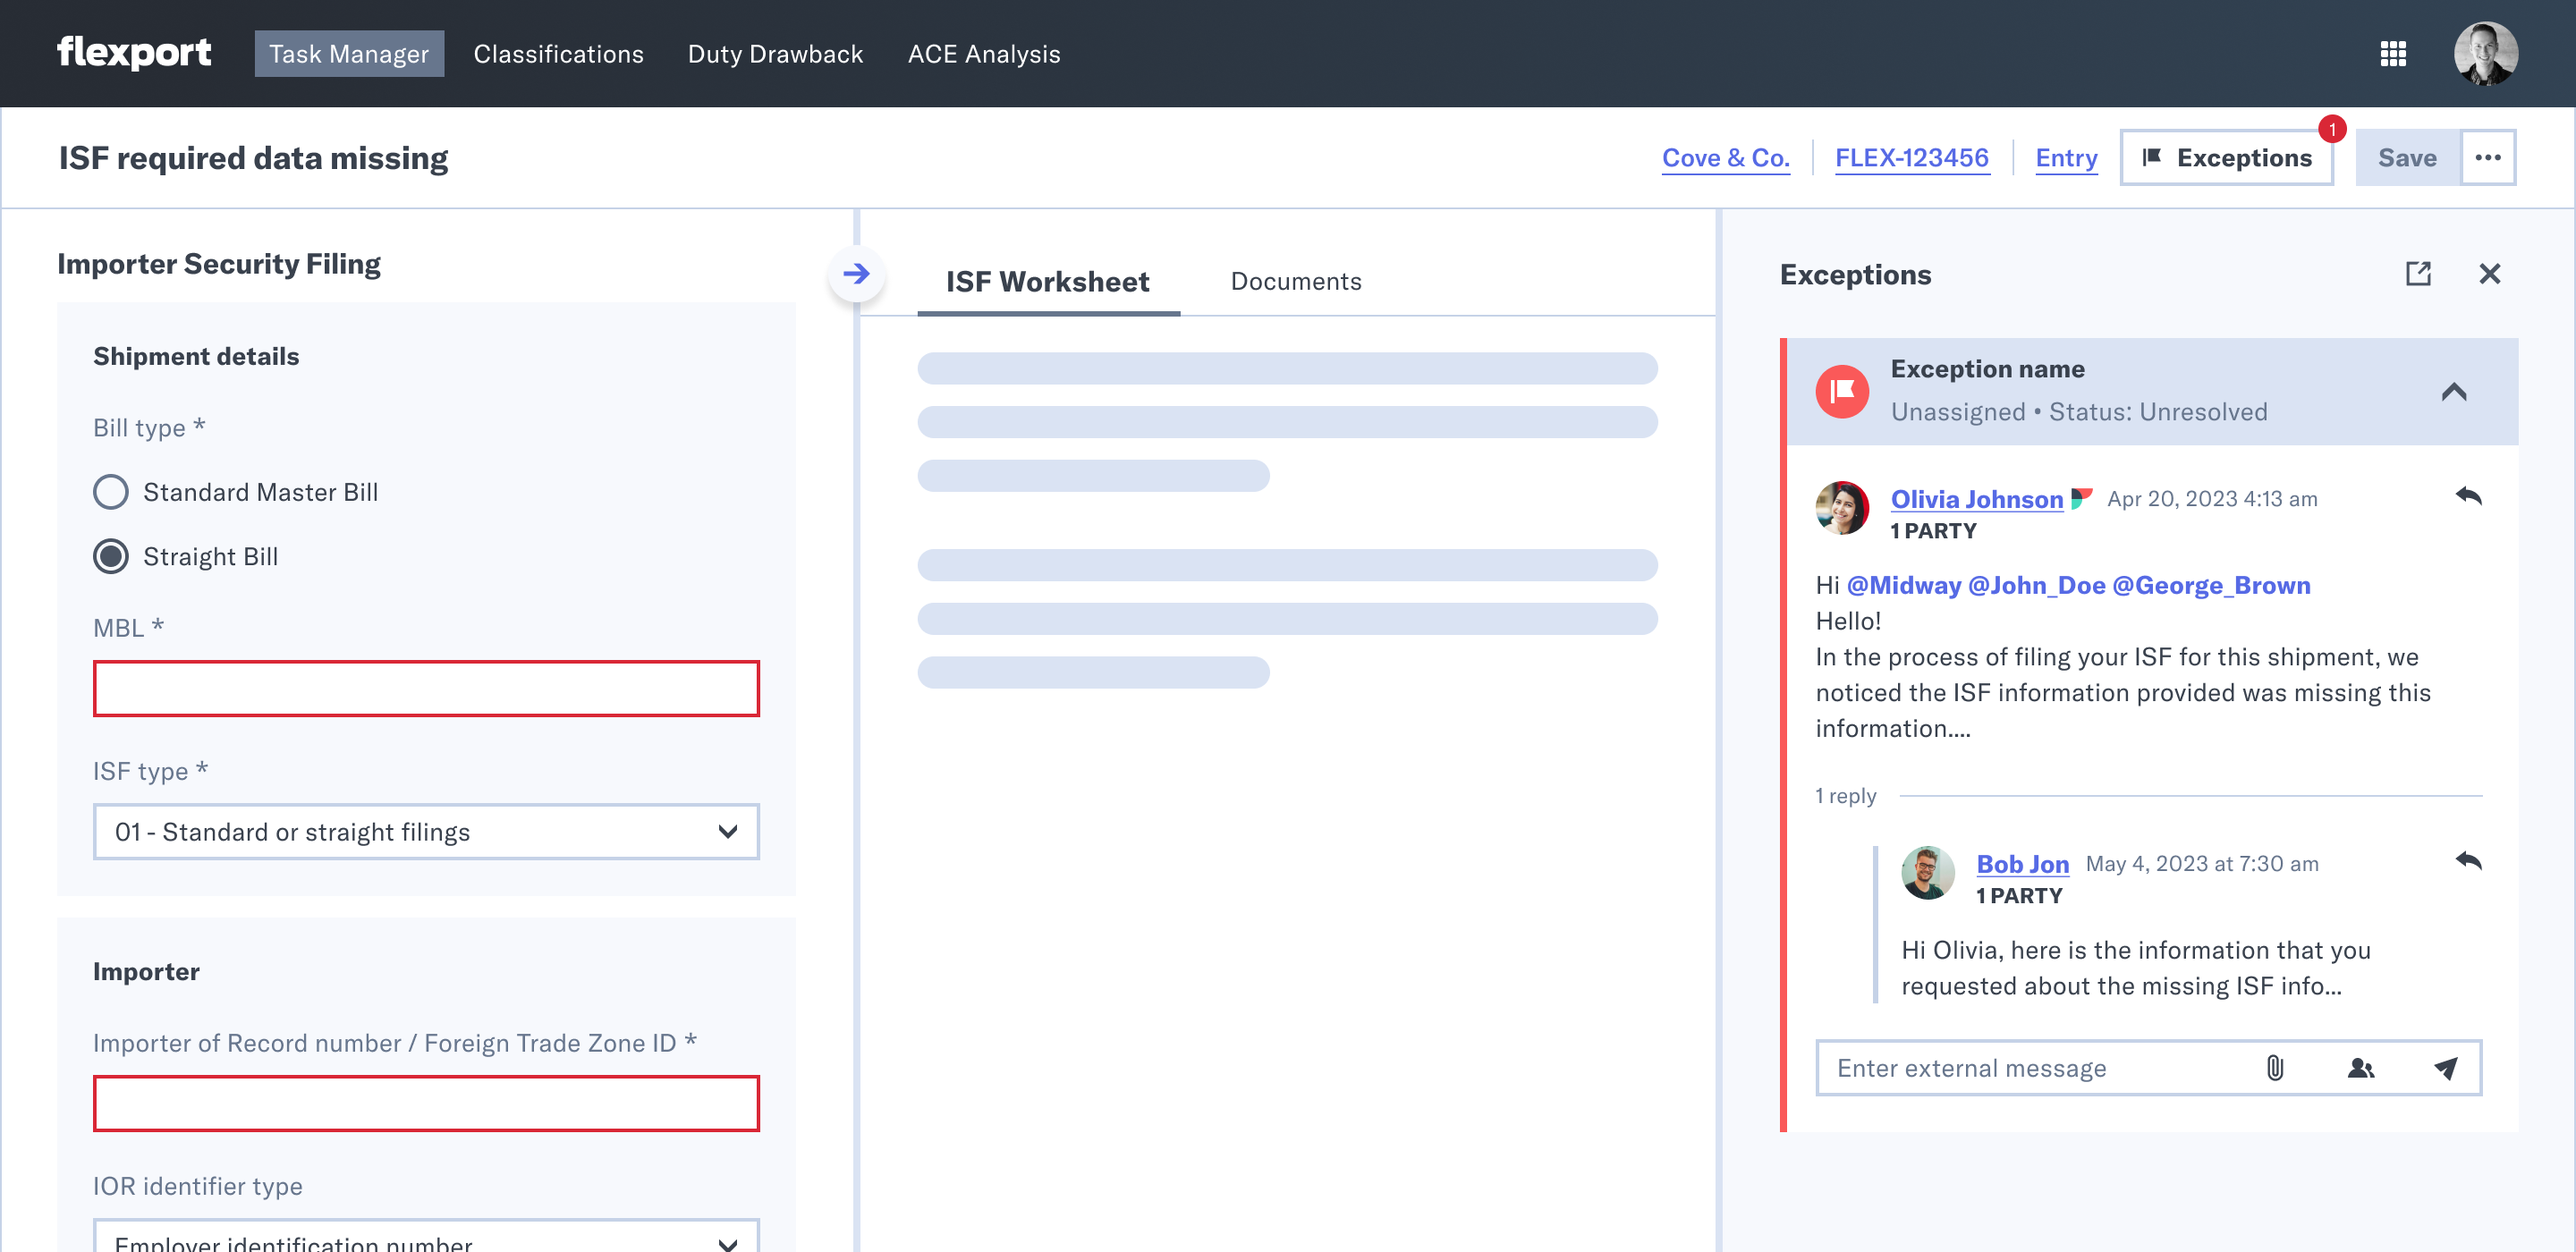
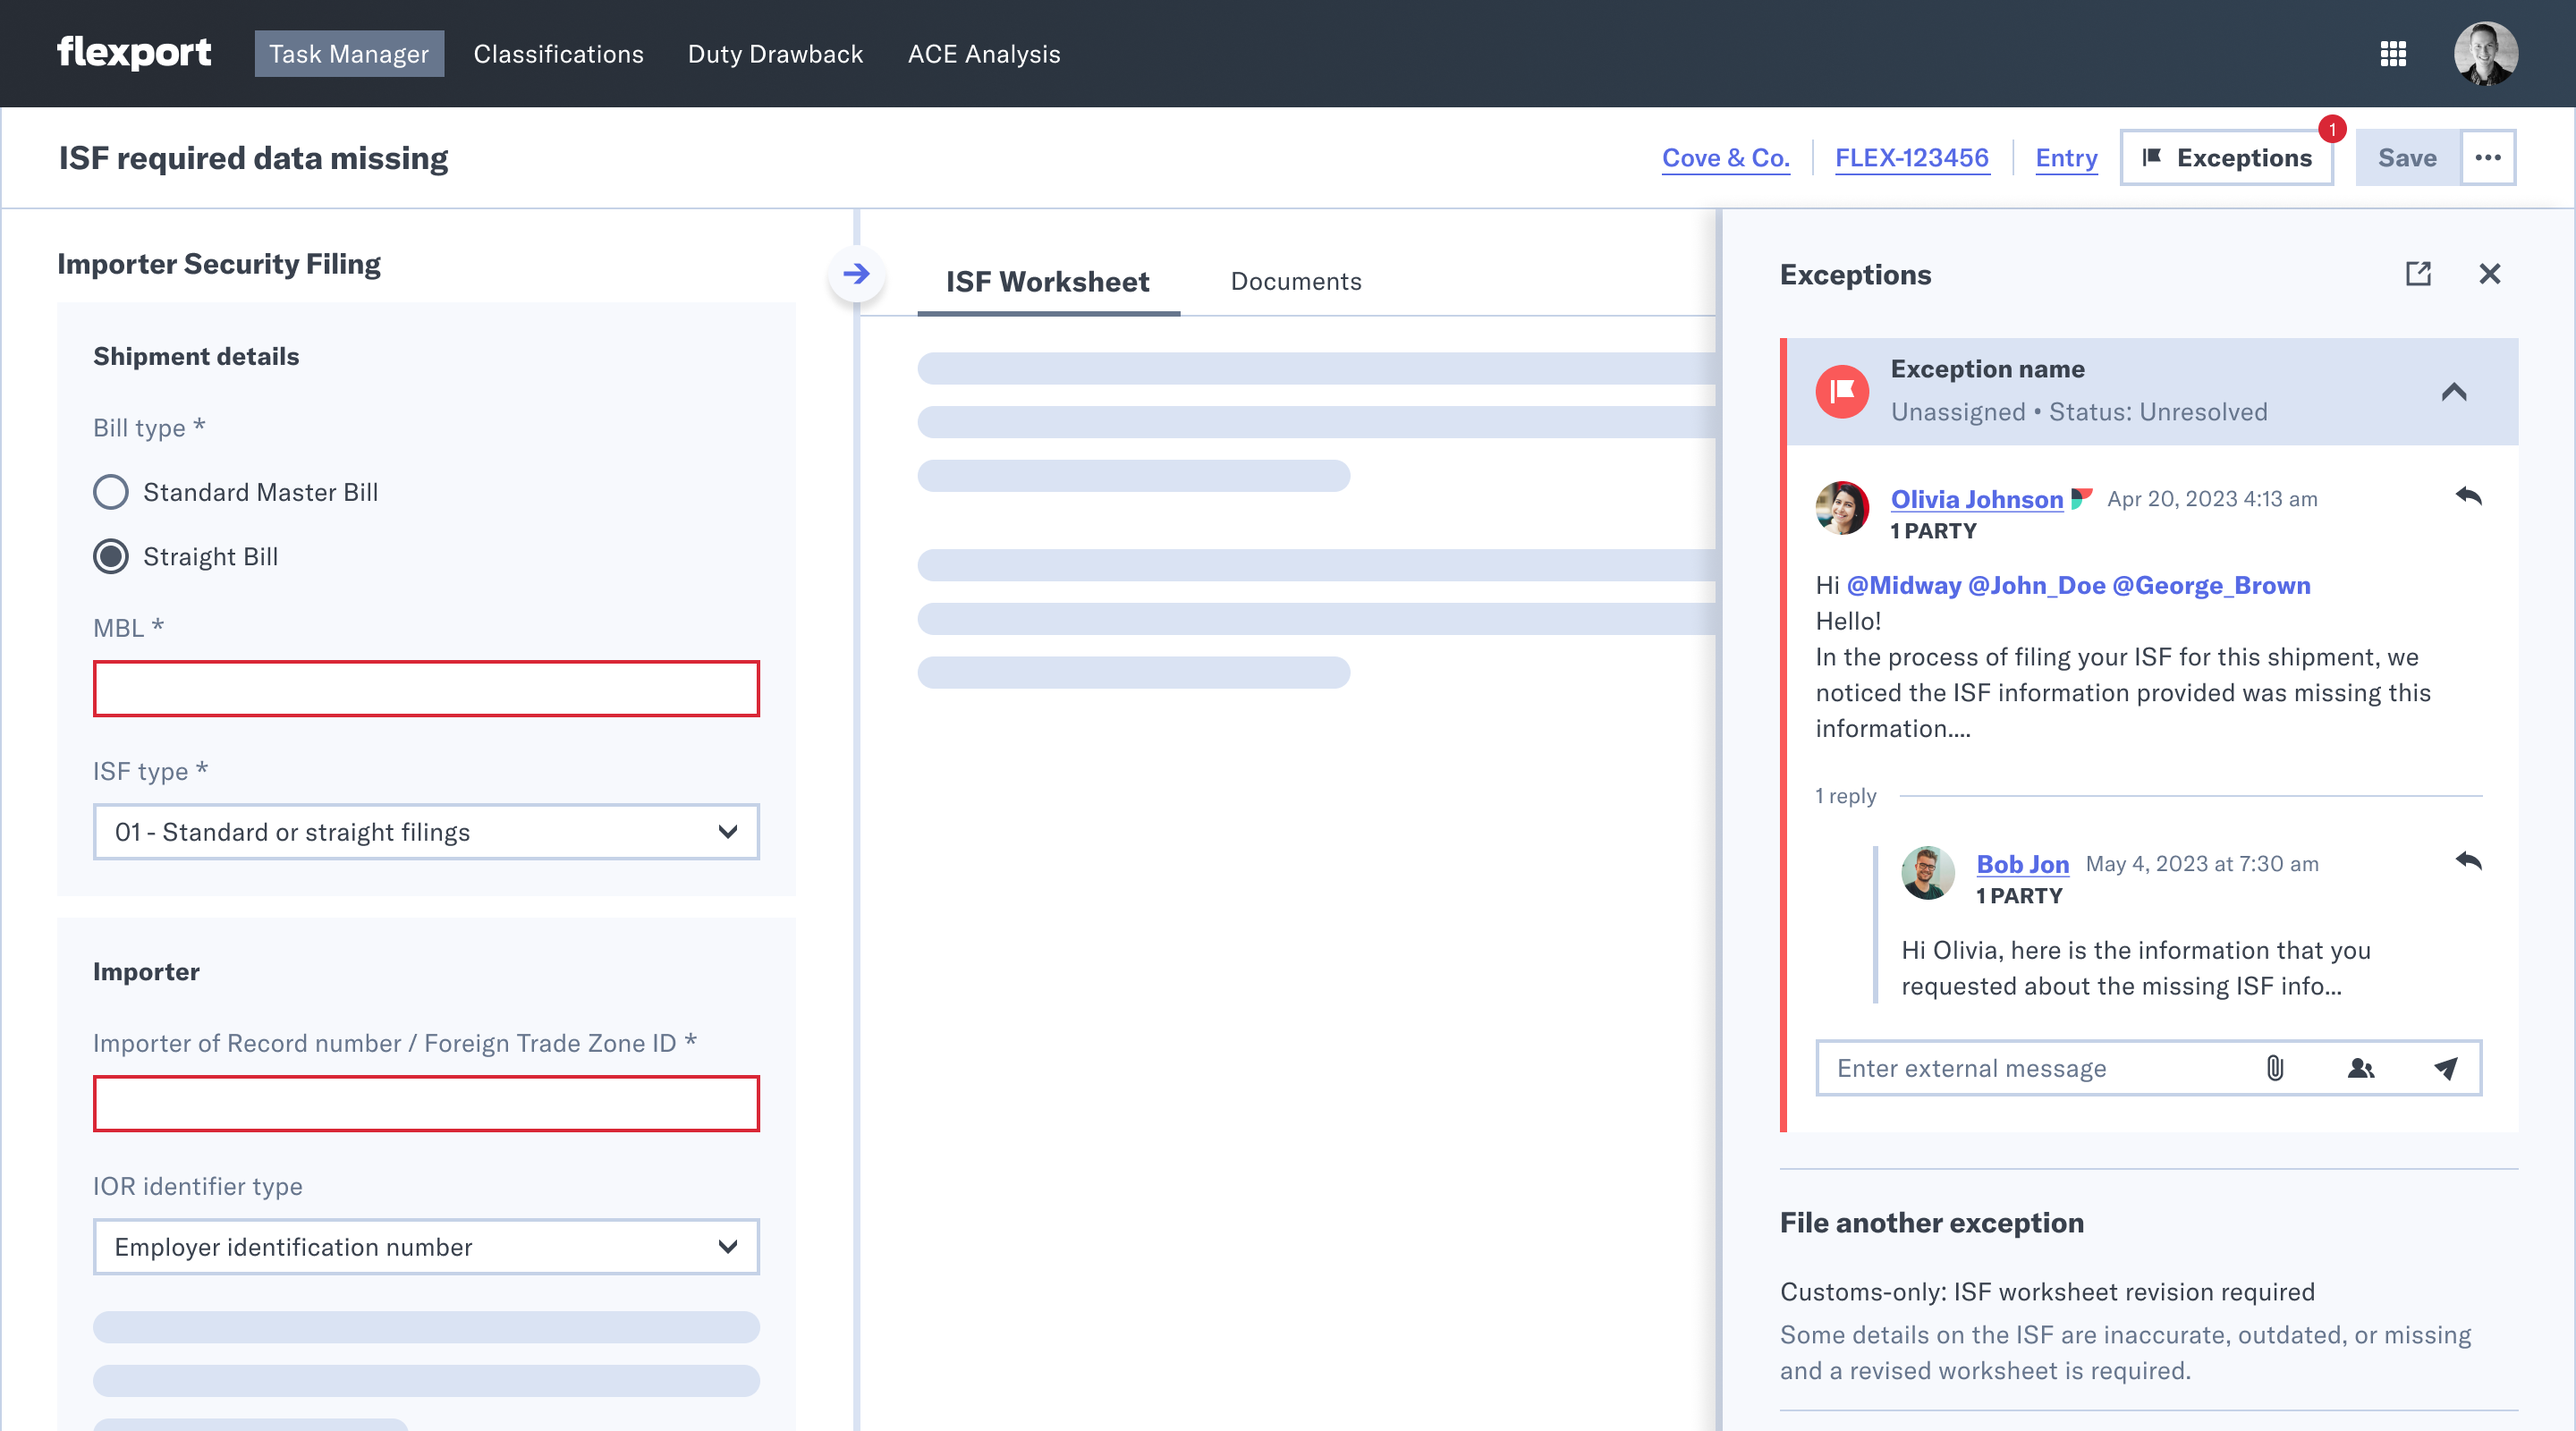
update ISF images

diff --git a/customs.html b/customs.html
@@ -78,7 +78,7 @@
 
     <div class="full-bleed">
       <div class="full-bleed__content full-bleed__content--ten">
-        <img src="images/customs/UI_ISF_full.png" alt="ISF missing data task showing the action panel, ISF worksheet, and exception thread — the exceptions panel is an overlay state surfaced when a broker needs to escalate to a third party." />
+        <img src="images/customs/task_ISF.png" alt="ISF missing data task showing the action panel, ISF worksheet, and exception thread — the exceptions panel is an overlay state surfaced when a broker needs to escalate to a third party." />
       </div>
     </div>
 

diff --git a/css/custom.css b/css/custom.css
@@ -871,7 +871,7 @@ figcaption {
   border-radius: 6px;
   object-fit: contain;
   object-position: bottom;
-  box-shadow: 0 1px 4px rgba(0, 0, 0, 0.12);
+  box-shadow: 0 0 20px rgba(0, 0, 0, 0.2);
 }
 
 .screenshot-panel .screenshot-panel__img.screenshot-panel__img--no-shadow {
